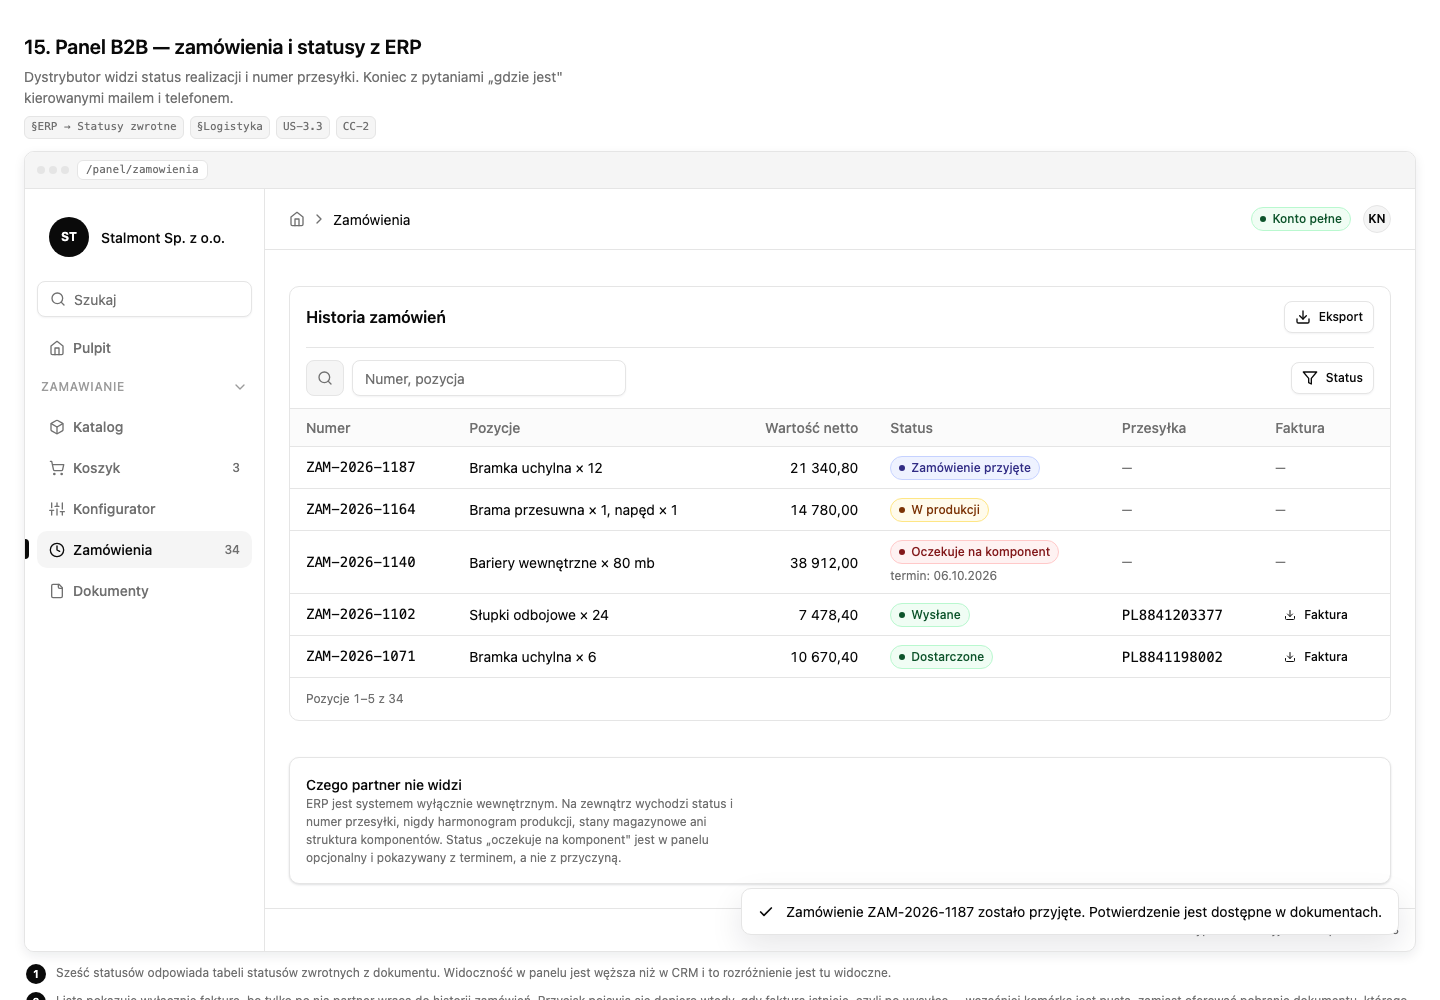
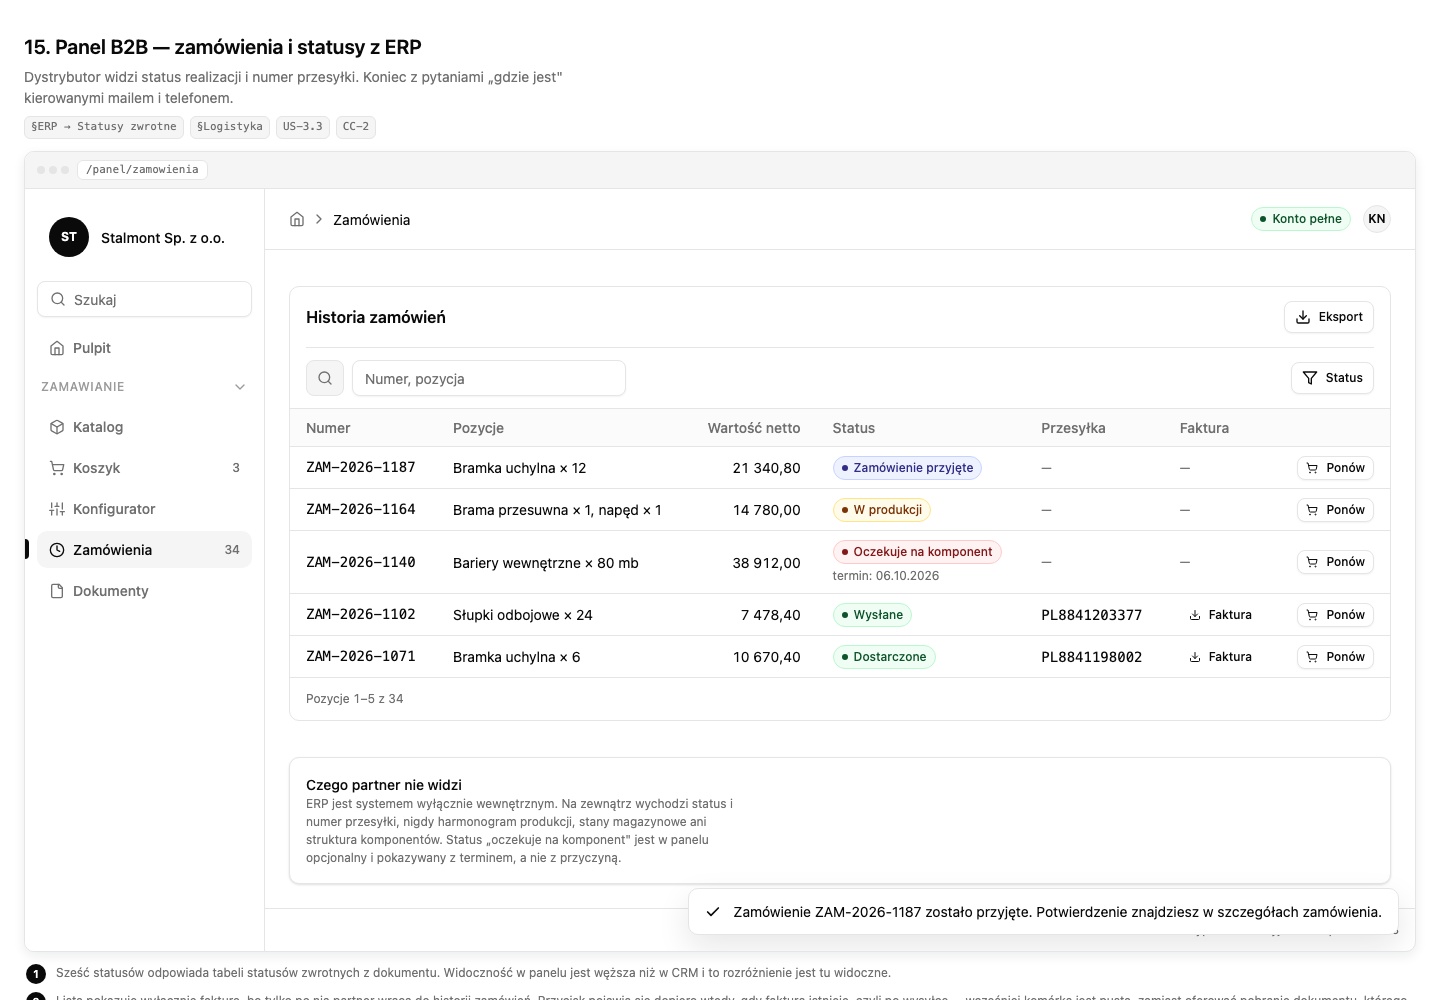
docs: prototyp Anter - ponowienie zamowienia jako akcja koszyka
"Ponow zamowienie" dodaje pozycje zamowienia do koszyka w tych samych
ilosciach i przenosi tam partnera - nie sklada zamowienia od razu. Ceny
mogly sie zmienic od poprzedniego razu, a ilosci bywaja inne, wiec koszyk
jest miejscem, gdzie partner to sprawdza przed potwierdzeniem.

Akcja jest teraz w dwoch miejscach: przy kazdym wierszu listy zamowien
(ekran 15, nowa kolumna) oraz jako glowna akcja szczegolow zamowienia
(ekran 39). Na liscie dostepna przy kazdym zamowieniu, takze w produkcji
i oczekujacym na komponent - powtorzenie nie zalezy od tego, czy
poprzednie zostalo dostarczone. Na pulpicie zostaje "Zamow ponownie"
dzialajace na pojedynczych pozycjach.

Potwierdzenie zamowienia usuniete ze szczegolow (naglowek i lista
dokumentow). Idzie mailem przy zlozeniu; komunikat na liscie zamowien
odsyla teraz do maila zamiast do panelu. W dokumentach zostaja oferta,
faktura i list przewozowy.

diff --git a/.ai/prototypes/anter-system-etapy/index.html b/.ai/prototypes/anter-system-etapy/index.html
@@ -1954,7 +1954,7 @@
         <main class="page">
           <div class="toast">
             <svg><use href="#ic-check"/></svg>
-            <span>Zamówienie ZAM-2026-1187 zostało przyjęte. Potwierdzenie znajdziesz w szczegółach zamówienia.</span>
+            <span>Zamówienie ZAM-2026-1187 zostało przyjęte. Potwierdzenie wysłaliśmy mailem.</span>
           </div>
 
           <div class="dt" style="margin-top:0.75rem">
@@ -1970,13 +1970,13 @@
             </div>
             <div class="scroll-x">
               <table class="table">
-                <thead><tr><th>Numer</th><th>Pozycje</th><th class="right">Wartość netto</th><th>Status</th><th>Przesyłka</th><th>Faktura</th></tr></thead>
+                <thead><tr><th>Numer</th><th>Pozycje</th><th class="right">Wartość netto</th><th>Status</th><th>Przesyłka</th><th>Faktura</th><th style="width:0"></th></tr></thead>
                 <tbody>
-                  <tr class="clickable"><td class="t-mono">ZAM-2026-1187</td><td>Bramka uchylna × 12</td><td class="right num">21 340,80</td><td><span class="badge badge-info"><span class="dot"></span> Zamówienie przyjęte</span></td><td class="t-hint">—</td><td class="t-hint">—</td></tr>
-                  <tr class="clickable"><td class="t-mono">ZAM-2026-1164</td><td>Brama przesuwna × 1, napęd × 1</td><td class="right num">14 780,00</td><td><span class="badge badge-warning"><span class="dot"></span> W produkcji</span></td><td class="t-hint">—</td><td class="t-hint">—</td></tr>
-                  <tr class="clickable" data-goto="s39"><td class="t-mono">ZAM-2026-1140</td><td>Bariery wewnętrzne × 80 mb</td><td class="right num">38 912,00</td><td><span class="badge badge-error"><span class="dot"></span> Oczekuje na komponent</span><br /><span class="t-hint">termin: 06.10.2026</span></td><td class="t-hint">—</td><td class="t-hint">—</td></tr>
-                  <tr class="clickable"><td class="t-mono">ZAM-2026-1102</td><td>Słupki odbojowe × 24</td><td class="right num">7 478,40</td><td><span class="badge badge-success"><span class="dot"></span> Wysłane</span></td><td><span class="t-mono">PL8841203377</span></td><td><button class="btn btn-ghost btn-xs"><svg><use href="#ic-download"/></svg> Faktura</button></td></tr>
-                  <tr class="clickable"><td class="t-mono">ZAM-2026-1071</td><td>Bramka uchylna × 6</td><td class="right num">10 670,40</td><td><span class="badge badge-success"><span class="dot"></span> Dostarczone</span></td><td><span class="t-mono">PL8841198002</span></td><td><button class="btn btn-ghost btn-xs"><svg><use href="#ic-download"/></svg> Faktura</button></td></tr>
+                  <tr class="clickable"><td class="t-mono">ZAM-2026-1187</td><td>Bramka uchylna × 12</td><td class="right num">21 340,80</td><td><span class="badge badge-info"><span class="dot"></span> Zamówienie przyjęte</span></td><td class="t-hint">—</td><td class="t-hint">—</td><td><button class="btn btn-outline btn-xs" data-goto="s37"><svg><use href="#ic-cart"/></svg> Ponów</button></td></tr>
+                  <tr class="clickable"><td class="t-mono">ZAM-2026-1164</td><td>Brama przesuwna × 1, napęd × 1</td><td class="right num">14 780,00</td><td><span class="badge badge-warning"><span class="dot"></span> W produkcji</span></td><td class="t-hint">—</td><td class="t-hint">—</td><td><button class="btn btn-outline btn-xs" data-goto="s37"><svg><use href="#ic-cart"/></svg> Ponów</button></td></tr>
+                  <tr class="clickable" data-goto="s39"><td class="t-mono">ZAM-2026-1140</td><td>Bariery wewnętrzne × 80 mb</td><td class="right num">38 912,00</td><td><span class="badge badge-error"><span class="dot"></span> Oczekuje na komponent</span><br /><span class="t-hint">termin: 06.10.2026</span></td><td class="t-hint">—</td><td class="t-hint">—</td><td><button class="btn btn-outline btn-xs" data-goto="s37"><svg><use href="#ic-cart"/></svg> Ponów</button></td></tr>
+                  <tr class="clickable"><td class="t-mono">ZAM-2026-1102</td><td>Słupki odbojowe × 24</td><td class="right num">7 478,40</td><td><span class="badge badge-success"><span class="dot"></span> Wysłane</span></td><td><span class="t-mono">PL8841203377</span></td><td><button class="btn btn-ghost btn-xs"><svg><use href="#ic-download"/></svg> Faktura</button></td><td><button class="btn btn-outline btn-xs" data-goto="s37"><svg><use href="#ic-cart"/></svg> Ponów</button></td></tr>
+                  <tr class="clickable"><td class="t-mono">ZAM-2026-1071</td><td>Bramka uchylna × 6</td><td class="right num">10 670,40</td><td><span class="badge badge-success"><span class="dot"></span> Dostarczone</span></td><td><span class="t-mono">PL8841198002</span></td><td><button class="btn btn-ghost btn-xs"><svg><use href="#ic-download"/></svg> Faktura</button></td><td><button class="btn btn-outline btn-xs" data-goto="s37"><svg><use href="#ic-cart"/></svg> Ponów</button></td></tr>
                 </tbody>
               </table>
             </div>
@@ -1995,7 +1995,9 @@
 
   <div class="notes">
     <div class="note"><b>1</b><span>Sześć statusów odpowiada tabeli statusów zwrotnych z dokumentu. Widoczność w panelu jest węższa niż w CRM i to rozróżnienie jest tu widoczne.</span></div>
-    <div class="note"><b>2</b><span>Lista pokazuje wyłącznie fakturę, bo tylko po nią partner wraca do historii zamówień. Przycisk pojawia się dopiero wtedy, gdy faktura istnieje, czyli po wysyłce — wcześniej komórka jest pusta, zamiast oferować pobranie dokumentu, którego nie ma. Komplet dokumentów (oferta, potwierdzenie, faktura, list przewozowy) jest w szczegółach zamówienia (ekran 39).</span></div>
+    <div class="note"><b>2</b><span>Lista pokazuje wyłącznie fakturę, bo tylko po nią partner wraca do historii zamówień. Przycisk pojawia się dopiero wtedy, gdy faktura istnieje, czyli po wysyłce — wcześniej komórka jest pusta, zamiast oferować pobranie dokumentu, którego nie ma. Pozostałe dokumenty (oferta, list przewozowy) są w szczegółach zamówienia (ekran 39).</span></div>
+    <div class="note"><b>3</b><span>„Ponów" przy każdym wierszu <span class="strong">dodaje pozycje tego zamówienia do koszyka</span> w tych samych ilościach i przenosi partnera do koszyka. Nie składa zamówienia od razu: ceny mogły się zmienić, a ilości bywają inne przy kolejnym razie. Ta sama akcja jest w szczegółach zamówienia (ekran 39).</span></div>
+    <div class="note"><b>4</b><span>Akcja jest dostępna przy każdym zamówieniu, także tym w produkcji i oczekującym na komponent. Powtórzenie zamówienia nie zależy od tego, czy poprzednie zostało już dostarczone.</span></div>
   </div>
 </section>
 
@@ -4771,10 +4773,10 @@ ul. Przemysłowa 44
             <div>
               <h1 class="t-page-title">ZAM-2026-1140</h1>
               <p>Złożone 28.08.2026 · Twój numer <span class="t-mono">ST/2026/08/097</span></p>
+              <p class="t-hint" style="margin:0.25rem 0 0">„Ponów zamówienie" dodaje wszystkie pozycje tego zamówienia do koszyka w tych samych ilościach. Zamówienie składasz dopiero z koszyka, po sprawdzeniu cen i ilości.</p>
             </div>
             <div class="page-actions">
-              <button class="btn btn-outline"><svg><use href="#ic-refresh"/></svg> Ponów to zamówienie</button>
-              <button class="btn btn-outline"><svg><use href="#ic-download"/></svg> Potwierdzenie</button>
+              <button class="btn btn-primary" data-goto="s37"><svg><use href="#ic-cart"/></svg> Ponów zamówienie</button>
             </div>
           </div>
 
@@ -4842,7 +4844,6 @@ ul. Przemysłowa 44
                 <div class="card-head"><span class="t-card-title">Dokumenty</span></div>
                 <div class="card-body">
                   <div class="stack-2">
-                    <div class="row between"><span class="row"><svg style="width:1rem;height:1rem;color:var(--muted-foreground)"><use href="#ic-file"/></svg> <span class="t-body">Potwierdzenie zamówienia</span></span><button class="btn btn-ghost btn-xs"><svg><use href="#ic-download"/></svg> Pobierz</button></div>
                     <div class="row between"><span class="row"><svg style="width:1rem;height:1rem;color:var(--muted-foreground)"><use href="#ic-file"/></svg> <span class="t-body">Oferta ODF-2026-0412</span></span><button class="btn btn-ghost btn-xs"><svg><use href="#ic-download"/></svg> Pobierz</button></div>
                     <div class="row between"><span class="row"><svg style="width:1rem;height:1rem;color:var(--muted-foreground)"><use href="#ic-file"/></svg> <span class="t-body">Faktura</span></span><span class="t-hint">po wysyłce</span></div>
                     <div class="row between"><span class="row"><svg style="width:1rem;height:1rem;color:var(--muted-foreground)"><use href="#ic-truck"/></svg> <span class="t-body">List przewozowy</span></span><span class="t-hint">po wysyłce</span></div>
@@ -4893,7 +4894,7 @@ ul. Przemysłowa 44
     <div class="note"><b>1</b><span>To ten sam napięty przypadek co na ekranie 15: status „oczekuje na komponent" z terminem, ale bez przyczyny. Dokument dopuszcza go w panelu „opcjonalnie, z terminem", co pozostaje w napięciu z zasadą, że ERP jest wyłącznie wewnętrzny (CC-2).</span></div>
     <div class="note"><b>2</b><span>Statusy pozycji („Gotowe" / „Oczekuje") są <span class="strong">założeniem</span> (A-20). Ujawniają więcej niż status całego zamówienia i mogą naruszać granicę wewnętrzności ERP. Alternatywa: pokazywać status wyłącznie na poziomie zamówienia. Decyzja do podjęcia razem z zakresem statusów zwrotnych.</span></div>
     <div class="note"><b>3</b><span>Korekta pozycji w podsumowaniu wartości nie ma w dokumencie modelu — pokazuje tylko, że wartość końcowa potrafi odbiegać od złożonego zamówienia. Skąd bierze się korekta i kto ją zatwierdza, pozostaje nierozstrzygnięte.</span></div>
-    <div class="note"><b>4</b><span>„Ponów to zamówienie" zamyka pętlę z pulpitem: powtarzalne zamówienie ma wracać jednym kliknięciem, bez przechodzenia przez katalog.</span></div>
+    <div class="note"><b>4</b><span>„Ponów zamówienie" <span class="strong">dodaje pozycje tego zamówienia do koszyka</span> w tych samych ilościach — nie składa zamówienia od razu. Partner trafia do koszyka, gdzie może zmienić ilości, usunąć pozycję i sprawdzić aktualne ceny, bo te mogły się zmienić od poprzedniego razu. Ta sama akcja jest na liście zamówień (ekran 15) i na pulpicie, w sekcji „Zamów ponownie" (ekran 34) — tyle że tam działa na pojedynczych pozycjach, a nie na całym zamówieniu.</span></div>
   </div>
 </section>
 
